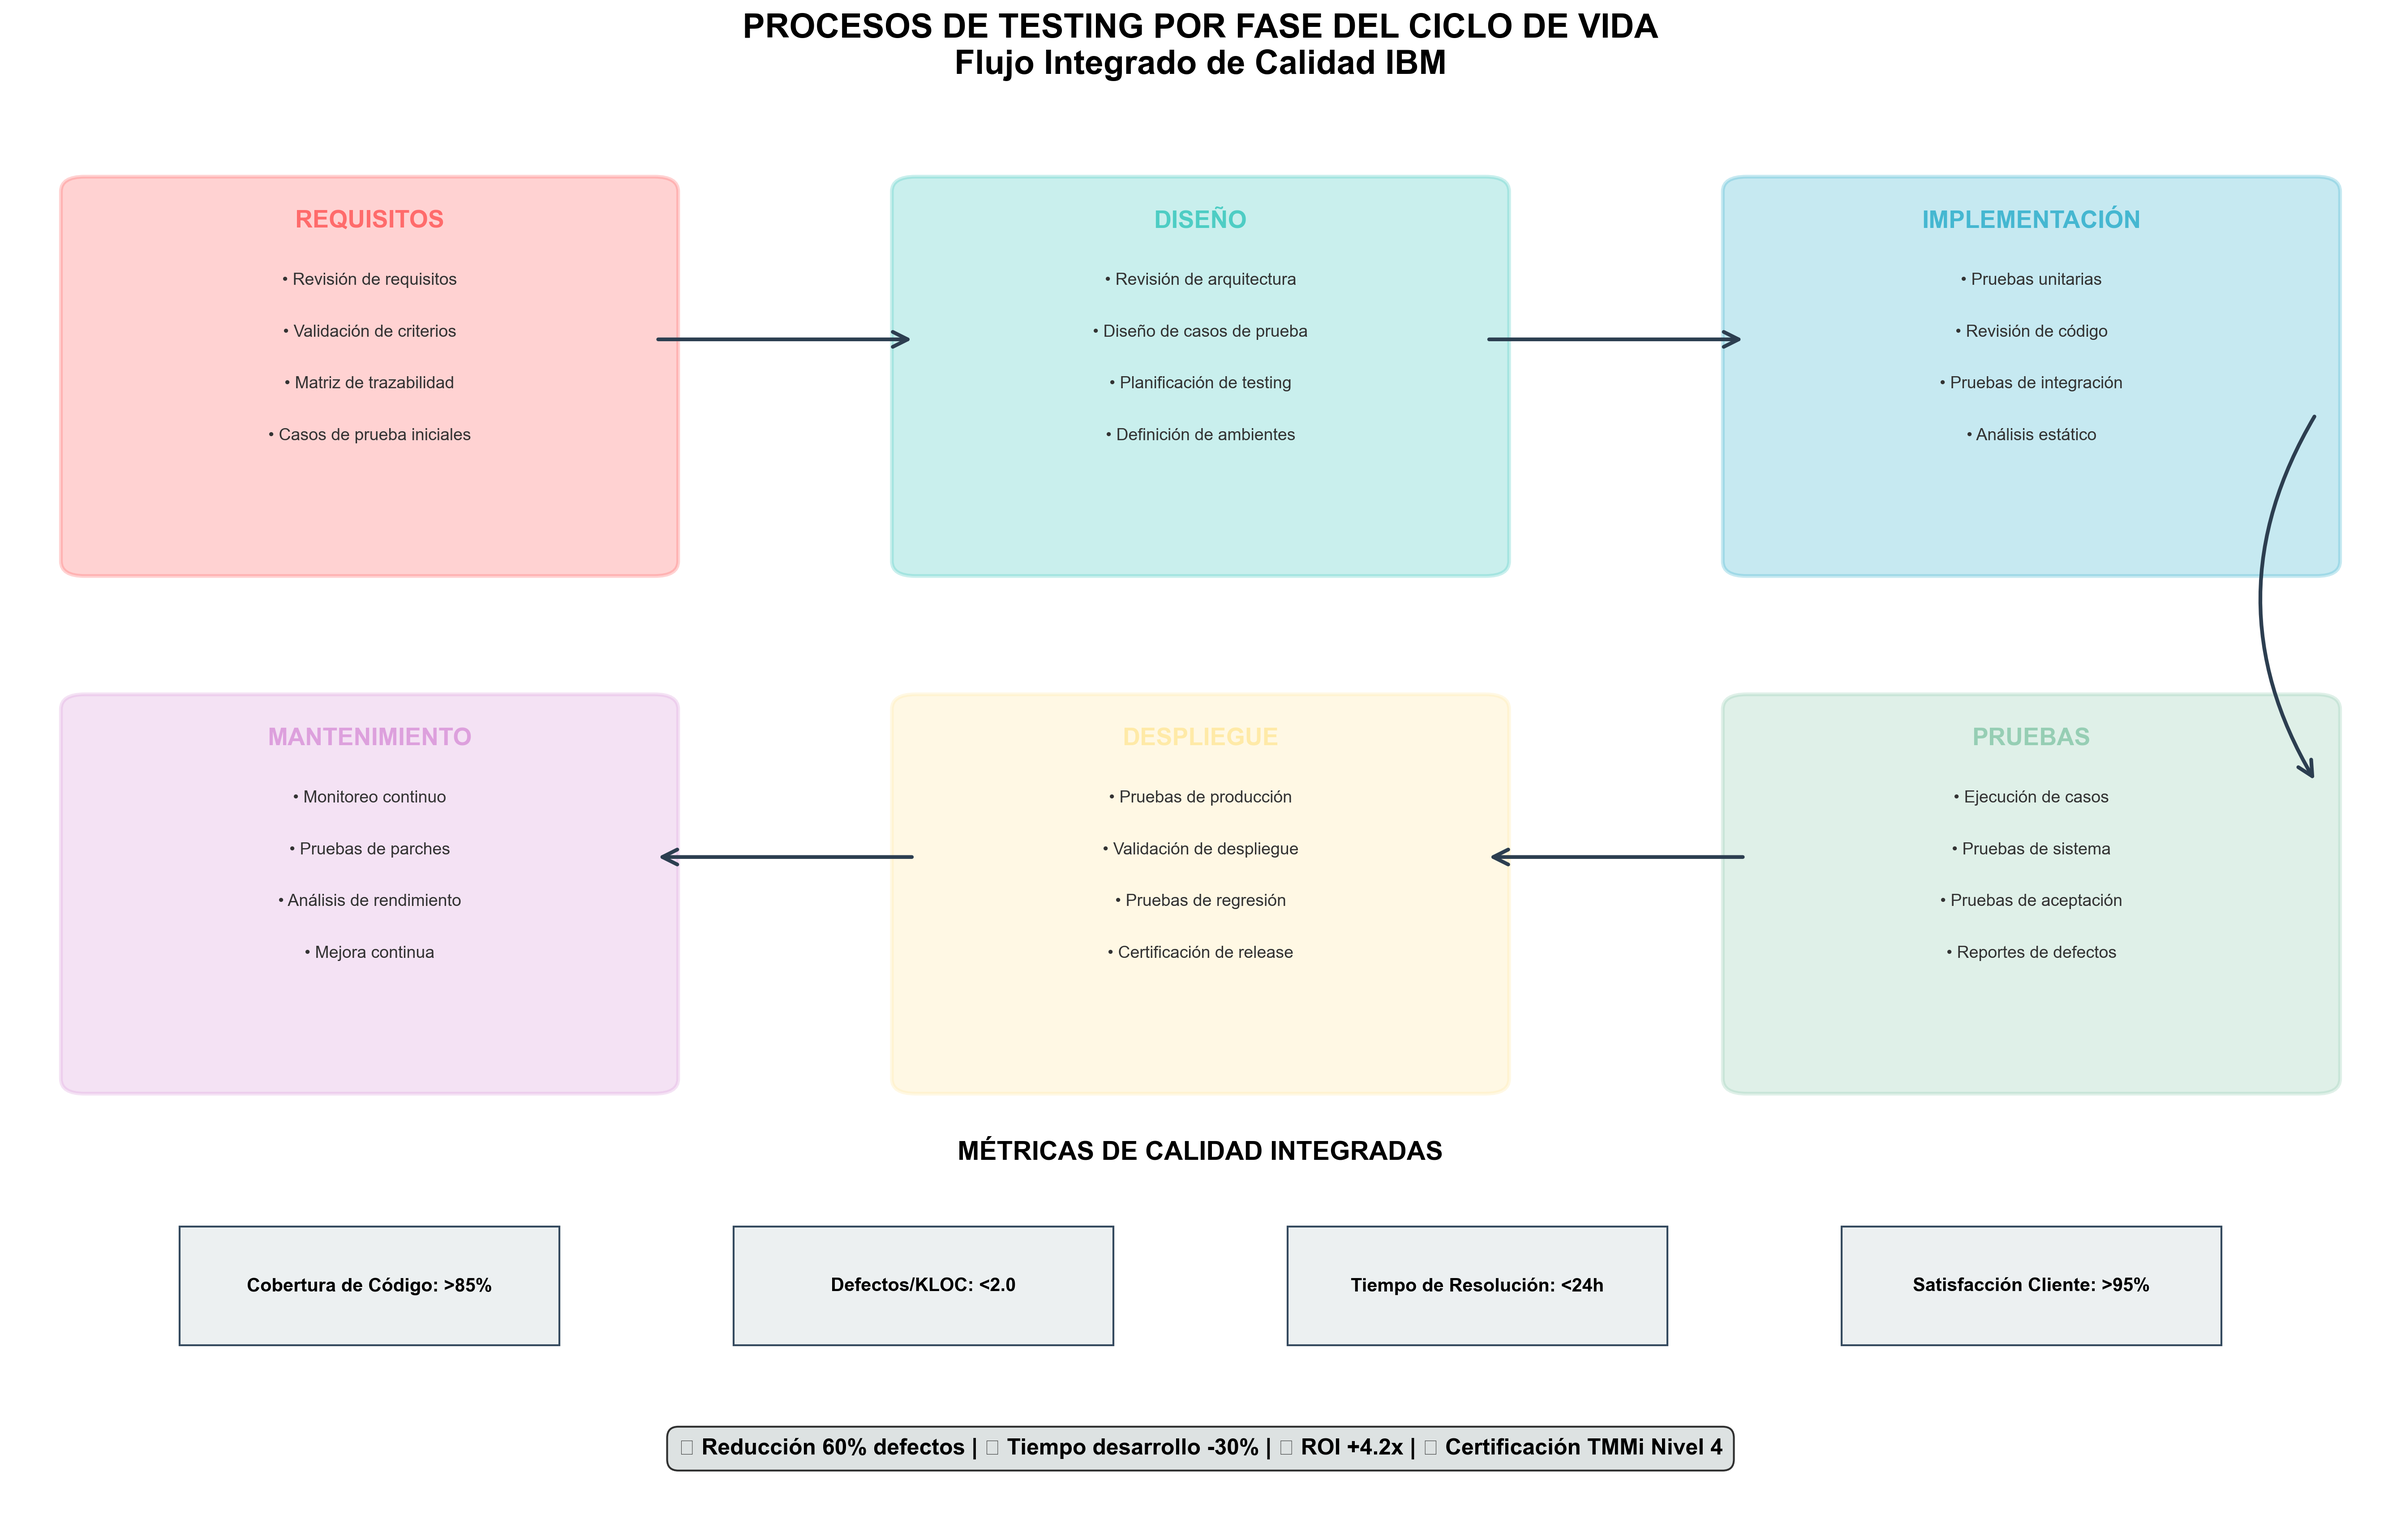
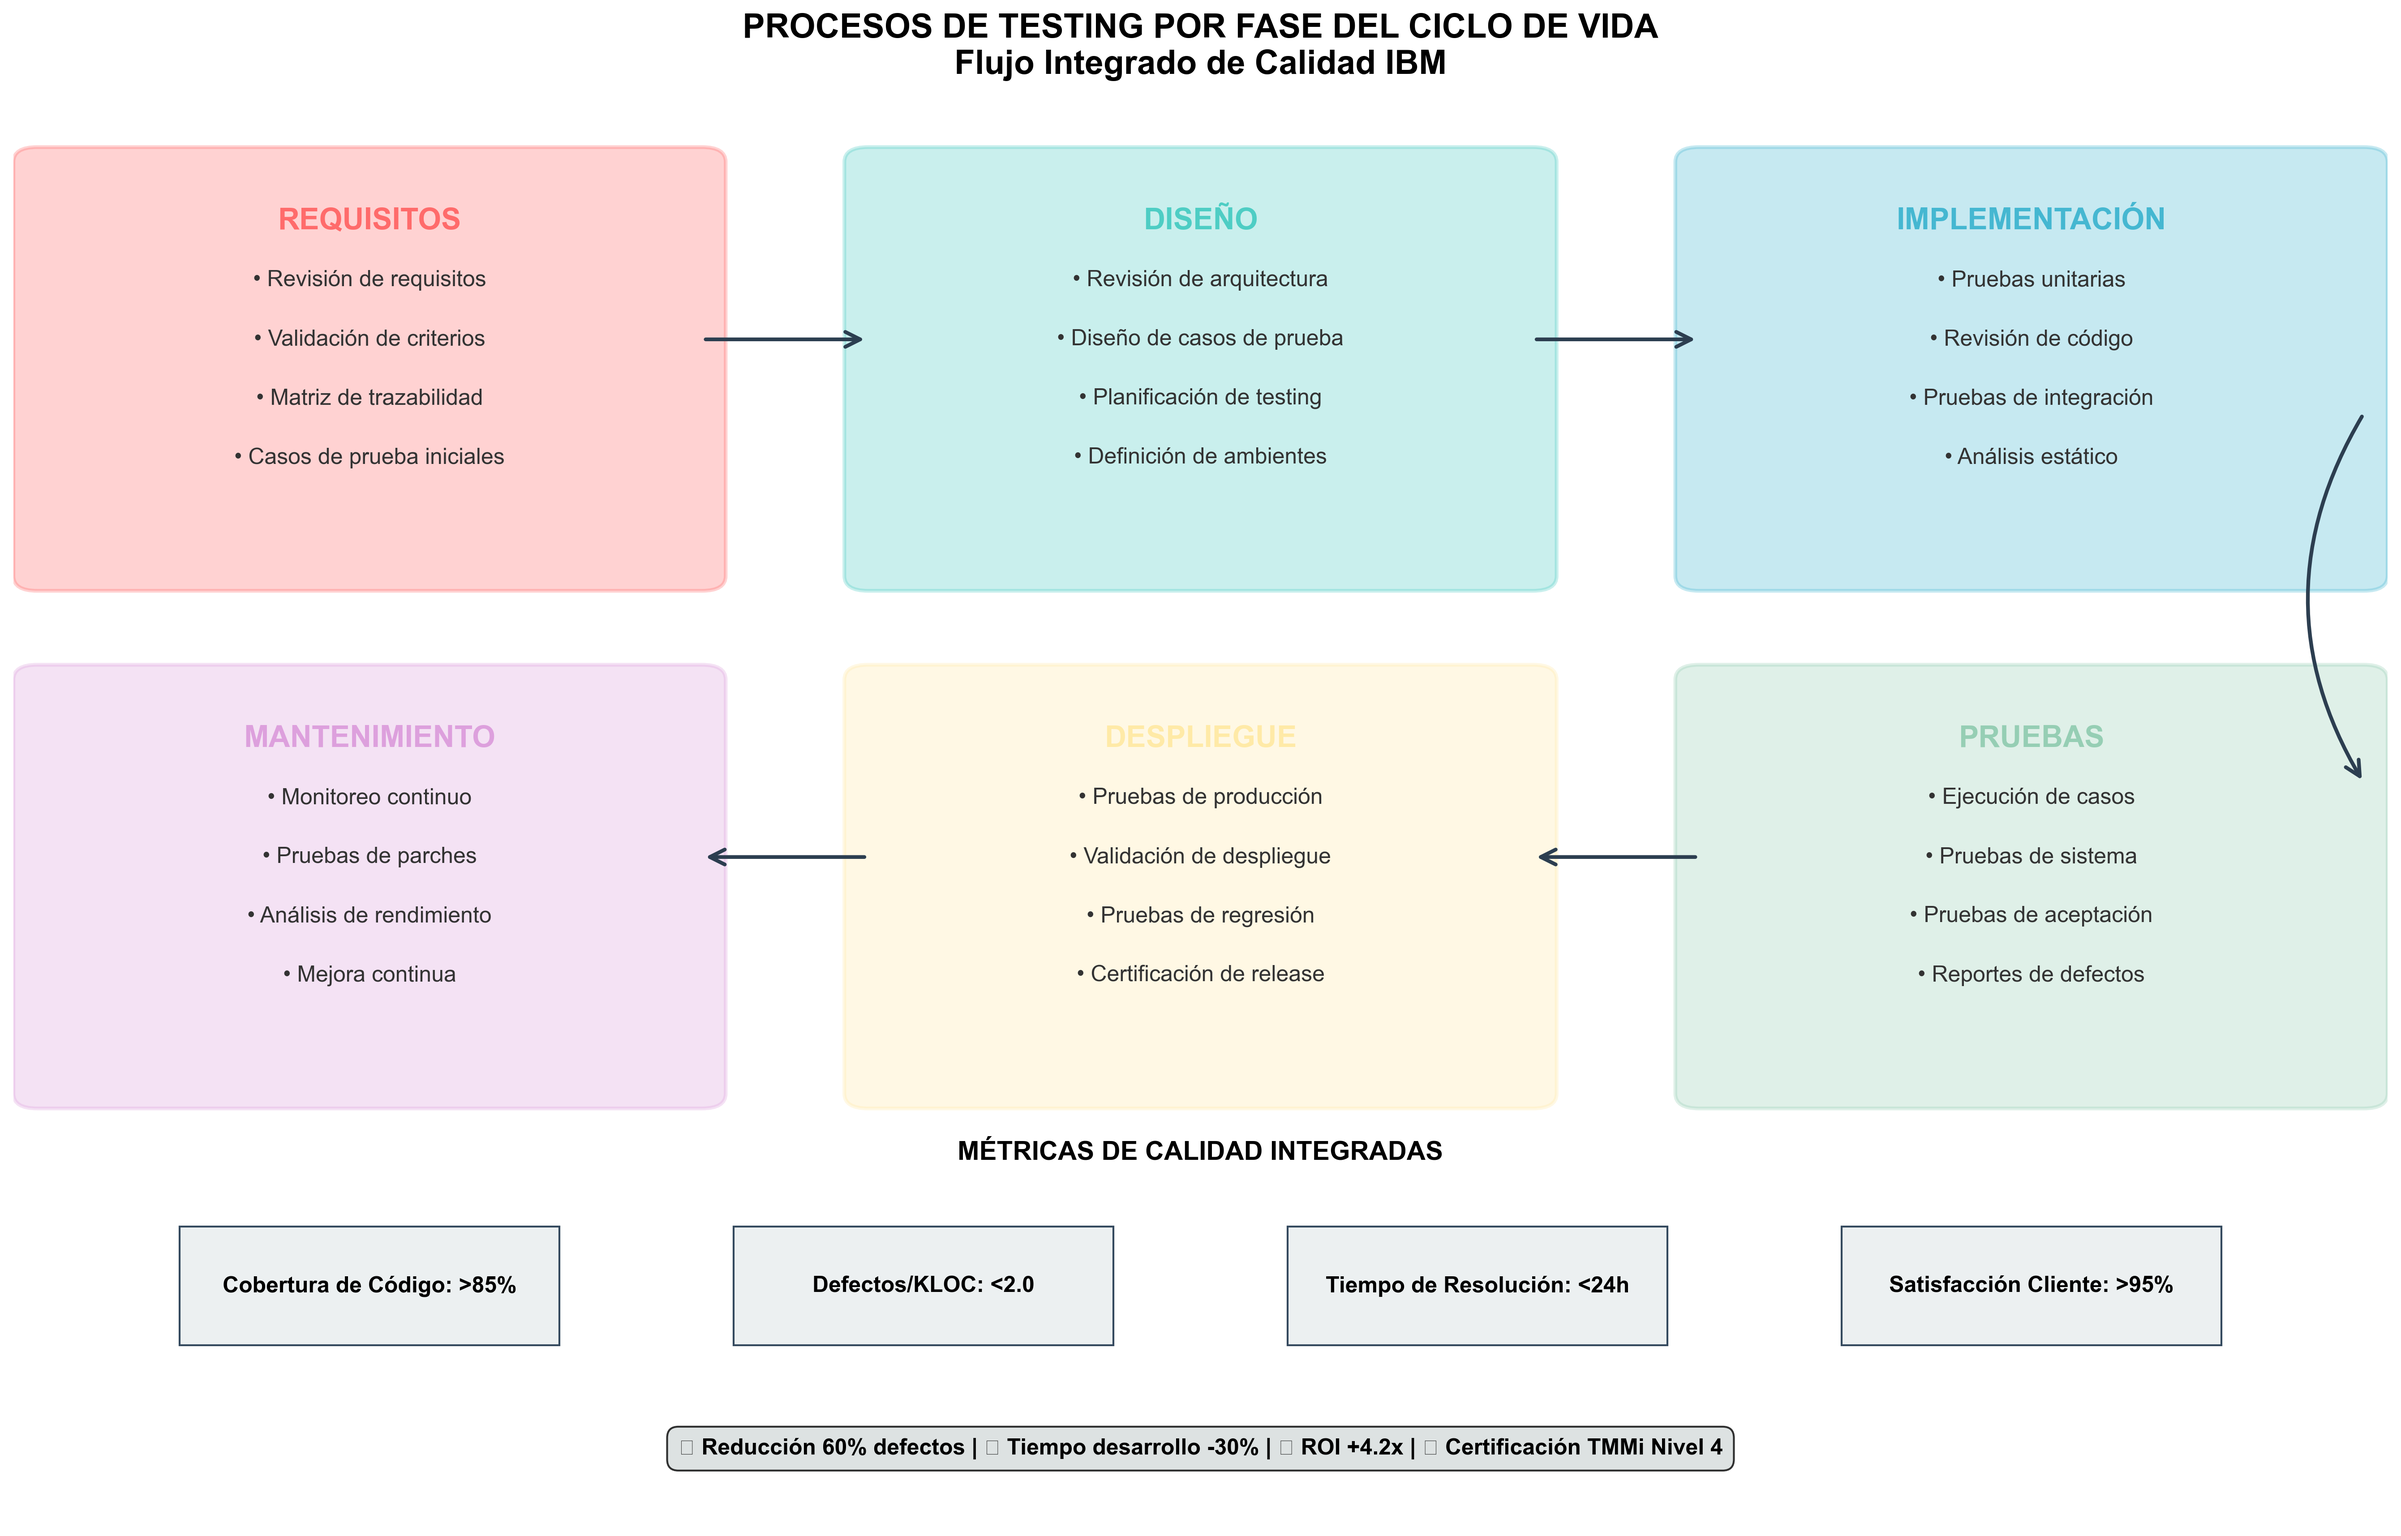
Corrección diagrama de procesos

diff --git a/scripts/generar_procesos_moderno.py b/scripts/generar_procesos_moderno.py
@@ -89,8 +89,8 @@ def crear_procesos_testing_flujo():
         x, y = posiciones[i]
         color = colores_fases[fase]
         
-        # Caja principal de la fase
-        rect = FancyBboxPatch((x-0.12, y-0.15), 0.24, 0.25,
+        # Caja principal de la fase (más grande para acomodar texto)
+        rect = FancyBboxPatch((x-0.14, y-0.16), 0.28, 0.28,
                              boxstyle="round,pad=0.01",
                              facecolor=color, alpha=0.3,
                              edgecolor=color, linewidth=2)
@@ -98,13 +98,13 @@ def crear_procesos_testing_flujo():
         
         # Título de la fase
         ax.text(x, y+0.08, fase.upper(), ha='center', va='center',
-                fontsize=13, fontweight='bold', color=color)
+                fontsize=16, fontweight='bold', color=color)
         
-        # Procesos de la fase
+        # Procesos de la fase (mayor espaciado para texto más grande)
         for j, proceso in enumerate(procesos):
-            y_proc = y + 0.04 - j * 0.035
+            y_proc = y + 0.04 - j * 0.04
             ax.text(x, y_proc, f'• {proceso}', ha='center', va='center',
-                    fontsize=9, color='#333333')
+                    fontsize=12, color='#333333', fontweight='medium')
     
     # Crear flechas de flujo
     conexiones = [
@@ -115,16 +115,16 @@ def crear_procesos_testing_flujo():
         x1, y1 = posiciones[inicio]
         x2, y2 = posiciones[fin]
         
-        # Ajustar puntos de inicio y fin
+        # Ajustar puntos de inicio y fin (ajustado para cajas más grandes)
         if inicio < 3:  # Fila superior
-            x1 += 0.12
+            x1 += 0.14
         else:  # Fila inferior
-            x1 -= 0.12
+            x1 -= 0.14
             
         if fin < 3:  # Fila superior
-            x2 -= 0.12
+            x2 -= 0.14
         else:  # Fila inferior
-            x2 += 0.12
+            x2 += 0.14
         
         # Crear flecha curvada
         if abs(y1 - y2) > 0.1:  # Conexión entre filas
@@ -156,7 +156,7 @@ def crear_procesos_testing_flujo():
                                facecolor='#ECF0F1', edgecolor='#34495E', linewidth=1)
         ax.add_patch(rect_metrica)
         ax.text(x, 0.16, metrica, ha='center', va='center',
-                fontsize=10, fontweight='bold', transform=ax.transAxes)
+                fontsize=12, fontweight='bold', transform=ax.transAxes)
     
     # Leyenda de beneficios
     ax.text(0.5, 0.05, '🎯 Reducción 60% defectos | ⚡ Tiempo desarrollo -30% | 💰 ROI +4.2x | 🏆 Certificación TMMi Nivel 4',
